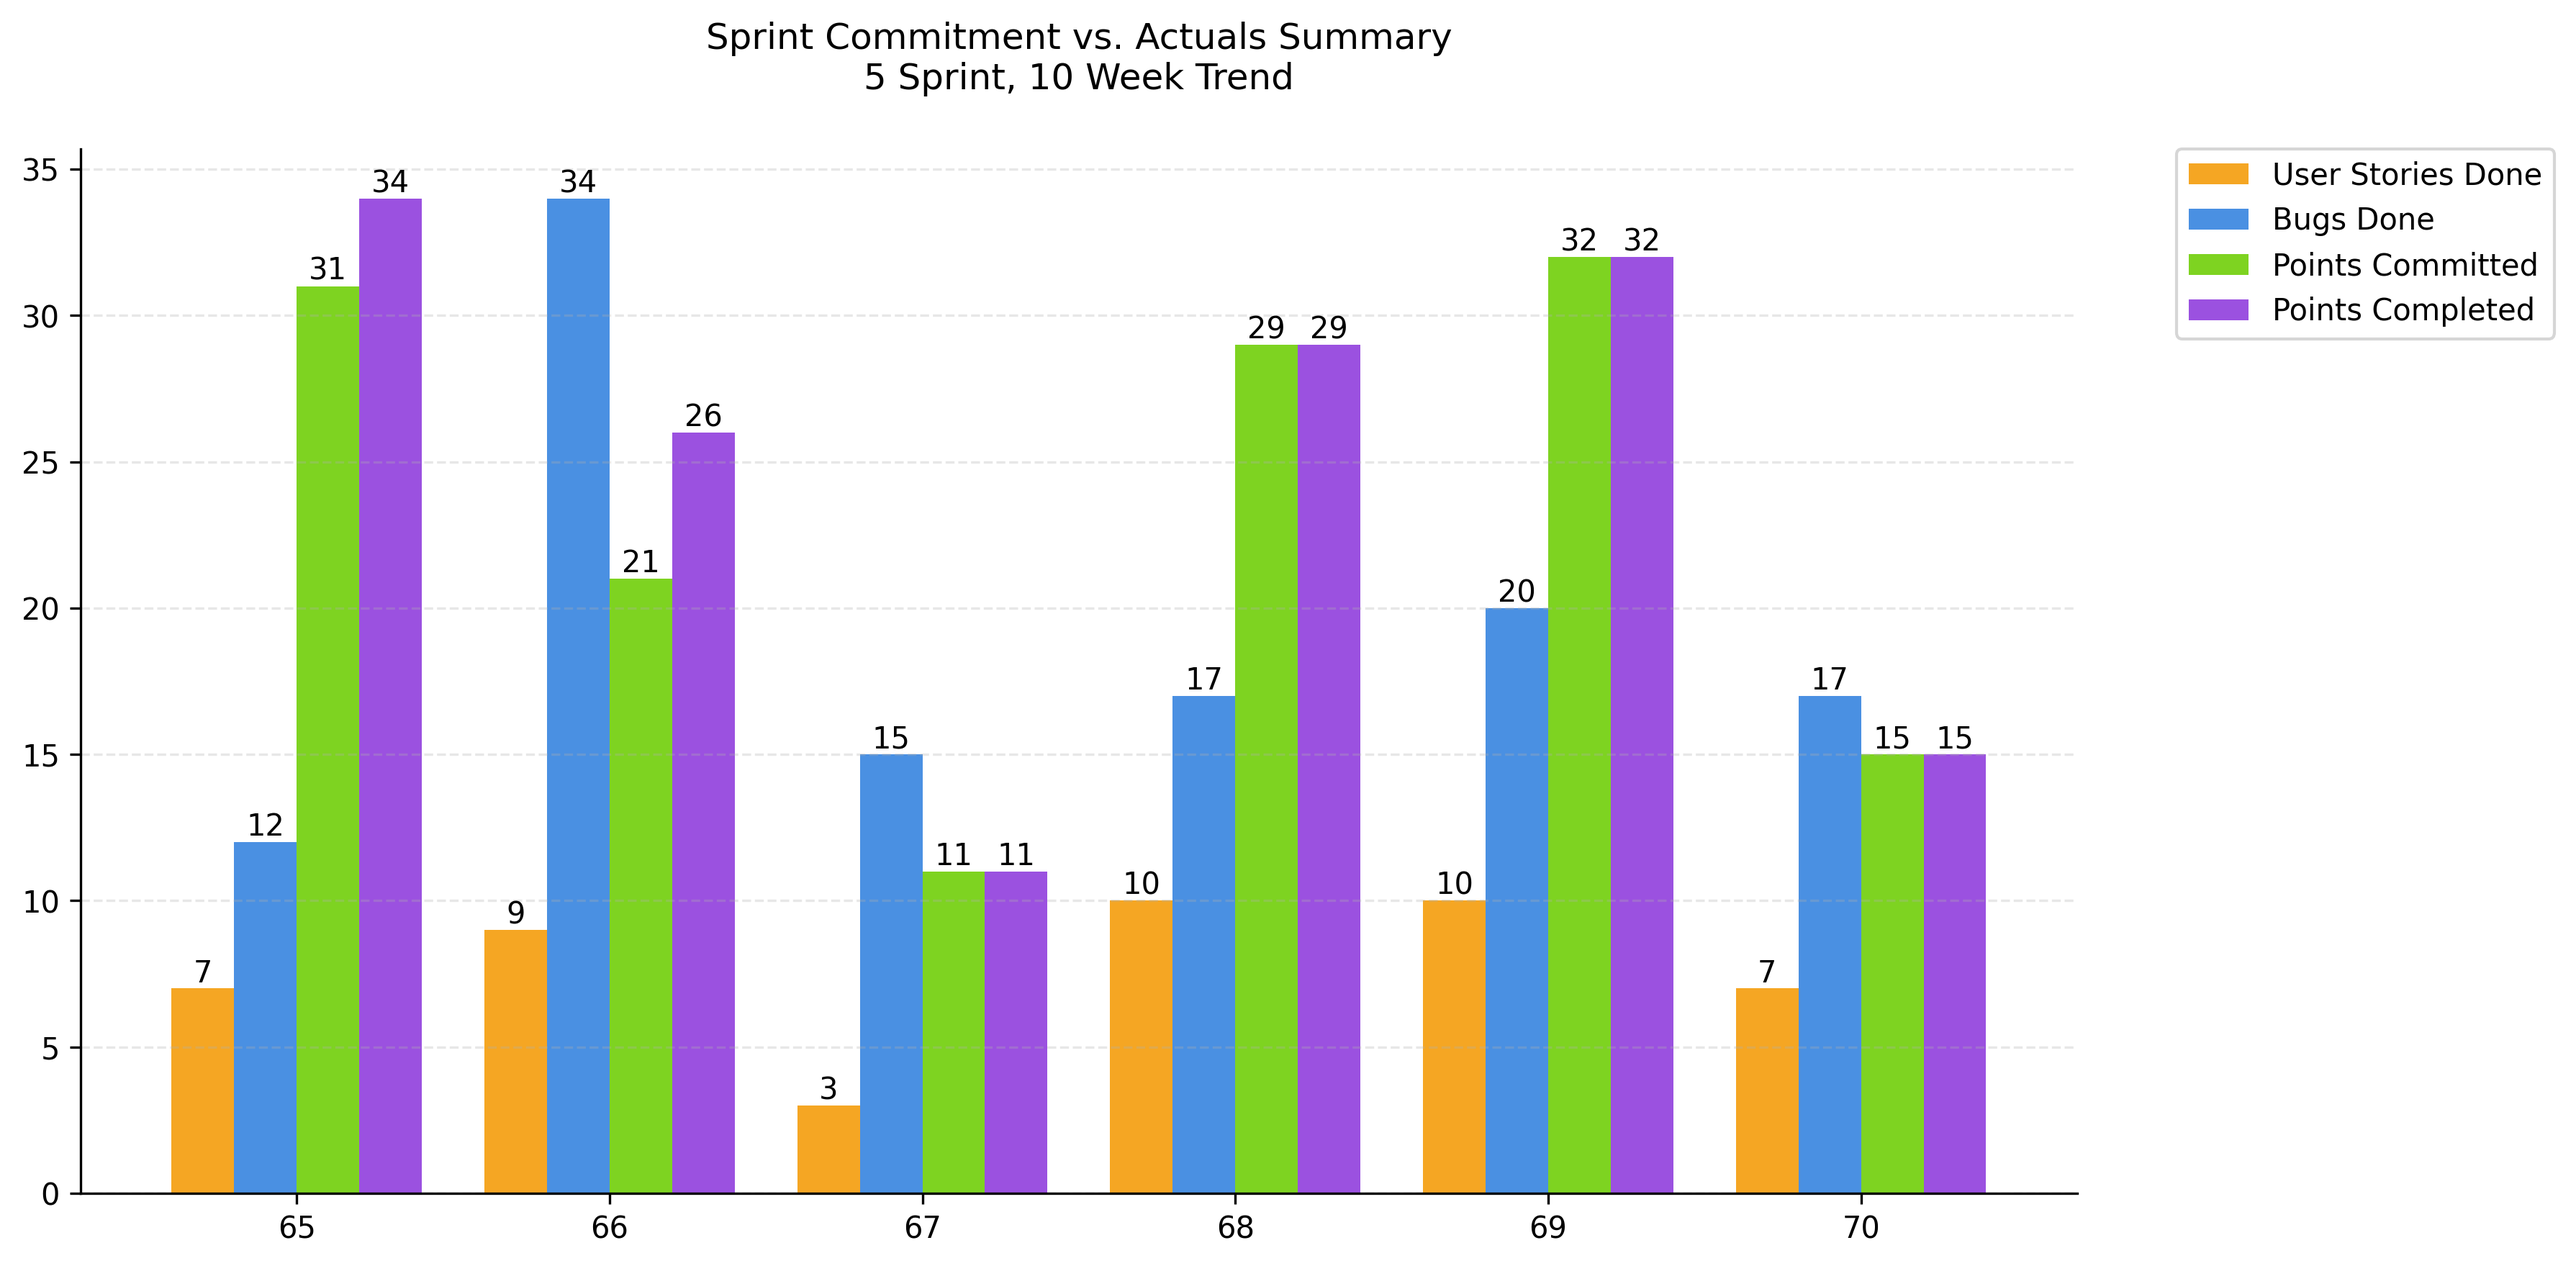
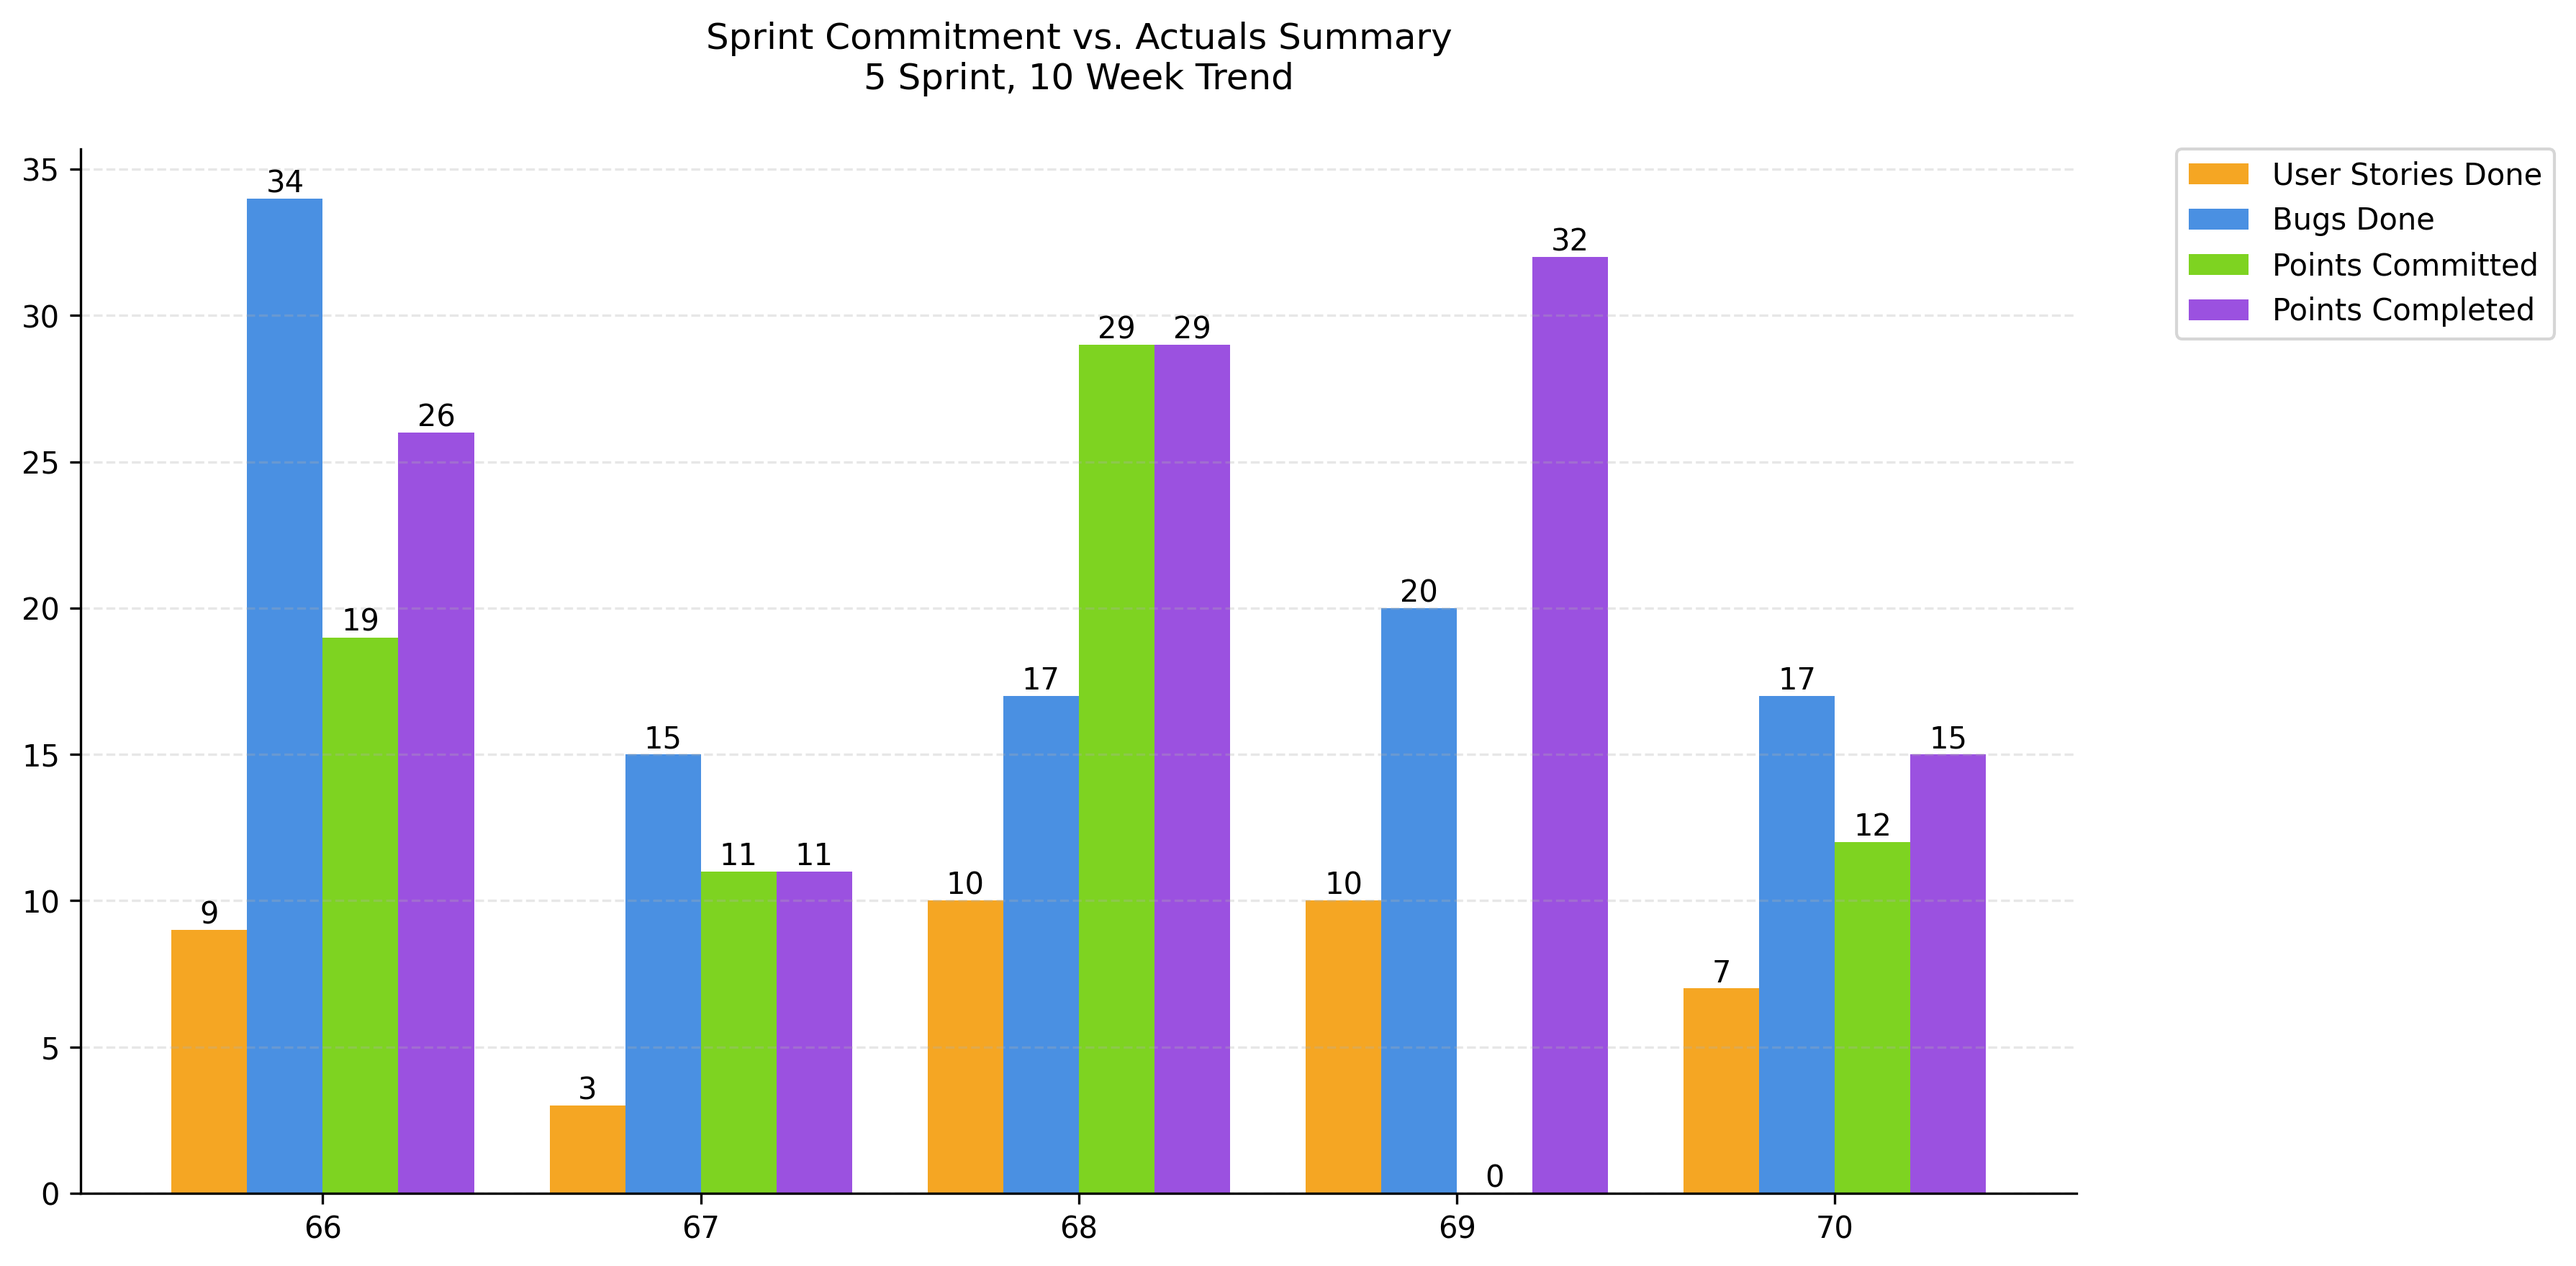
sprint carry over

Changed region(s): [[0.062, 0.1228, 0.7754, 0.9824]]

diff --git a/azure/main.py b/azure/main.py
@@ -16,9 +16,9 @@ headers = {
 }
 
 current_sprint = 'Sprint 70'
-sprint_range_start = 65
-sprint_range_end = 71
-sprints_to_analyze = [f'Sprint {i}' for i in range(sprint_range_start, sprint_range_end)]
+sprint_range_start = 66
+sprint_range_end = 70
+sprints_to_analyze = [f'Sprint {i}' for i in range(sprint_range_start, sprint_range_end + 1)]
 
 def parse_azure_date(date_string):
     if not date_string:
@@ -40,6 +40,58 @@ def get_sprint_dates(iterations, sprint_name):
             )
     return None, None
 
+def get_all_iterations():
+    url = f'https://dev.azure.com/{organization}/{project}/{team}/_apis/work/teamsettings/iterations?api-version=6.0'
+    response = requests.get(url, headers=headers)
+    if response.status_code != 200:
+        print(f"Error fetching iterations. Status code: {response.status_code}")
+        print(response.text)
+        return []
+    return response.json()['value']
+
+def get_work_item_history(work_item_id):
+    url = f'https://dev.azure.com/{organization}/{project}/_apis/wit/workItems/{work_item_id}/updates?api-version=6.0'
+    response = requests.get(url, headers=headers)
+    if response.status_code != 200:
+        print(f"Error fetching work item history for ID {work_item_id}. Status code: {response.status_code}")
+        return []
+    return response.json()['value']
+
+def check_previous_sprint_activity(work_item_id, current_sprint_path, iterations):
+    history = get_work_item_history(work_item_id)
+    if not history:
+        return False
+    
+    # Get mapping of sprint names to paths
+    sprint_paths = {iter['name']: iter.get('path', '') for iter in iterations}
+    previous_sprint = f"Sprint {int(current_sprint.split()[1]) - 1}"
+    previous_sprint_path = sprint_paths.get(previous_sprint, '')
+    
+    # Get in-progress states
+    in_progress_states = ['In Development', 'In Progress', 'Ready for QA', 'QA', 'Code Review']
+    
+    for update in history:
+        if 'fields' in update and 'System.State' in update['fields']:
+            state_change = update['fields']['System.State']
+            if 'newValue' in state_change and state_change['newValue'] in in_progress_states:
+                # Check if this state change occurred during the previous sprint
+                if 'fields' in update and 'System.IterationPath' in update['fields']:
+                    iter_path = update['fields']['System.IterationPath']
+                    if 'oldValue' in iter_path and iter_path['oldValue'] == previous_sprint_path:
+                        return True
+                    if 'newValue' in iter_path and iter_path['newValue'] == previous_sprint_path:
+                        return True
+                
+                # If we don't have iteration path in this update, check the revision date
+                revision_date = parse_azure_date(update.get('revisedDate'))
+                if revision_date:
+                    # Get previous sprint dates
+                    prev_start, prev_end = get_sprint_dates(iterations, previous_sprint)
+                    if prev_start and prev_end and prev_start <= revision_date <= prev_end:
+                        return True
+    
+    return False
+
 def get_sprint_data(sprint_name):
     sprint_data = {
         'user_stories_total': 0,
@@ -47,17 +99,14 @@ def get_sprint_data(sprint_name):
         'bugs_completed': 0,
         'points_committed': 0,
         'points_completed': 0,
-        'initial_points_committed': 0
+        'initial_points_committed': 0,
+        'carry_over_points': 0
     }
 
-    url = f'https://dev.azure.com/{organization}/{project}/{team}/_apis/work/teamsettings/iterations?api-version=6.0'
-    response = requests.get(url, headers=headers)
-    if response.status_code != 200:
-        print(f"Error fetching sprint data for {sprint_name}. Status code: {response.status_code}")
-        print(response.text)
+    iterations = get_all_iterations()
+    if not iterations:
         return sprint_data
 
-    iterations = response.json()['value']
     iteration_path = next((iter.get('path', '') for iter in iterations if iter['name'] == sprint_name), None)
     if not iteration_path:
         return sprint_data
@@ -70,7 +119,8 @@ def get_sprint_data(sprint_name):
     query = {
         'query': f"""
             SELECT [System.Id], [System.Title], [System.WorkItemType], 
-                   [Microsoft.VSTS.Scheduling.StoryPoints], [System.State]
+                   [Microsoft.VSTS.Scheduling.StoryPoints], [System.State], 
+                   [System.CreatedDate], [System.ChangedDate]
             FROM workitems 
             WHERE [System.IterationPath] = '{iteration_path}'
         """
@@ -91,6 +141,7 @@ def get_sprint_data(sprint_name):
         return sprint_data
 
     for item in response.json()['value']:
+        item_id = item['id']
         fields = item['fields']
         item_type = fields['System.WorkItemType']
         state = fields['System.State']
@@ -99,12 +150,14 @@ def get_sprint_data(sprint_name):
         
         created_date = parse_azure_date(fields.get('System.CreatedDate'))
         closed_date = parse_azure_date(fields.get('Microsoft.VSTS.Common.ClosedDate'))
+        changed_date = parse_azure_date(fields.get('System.ChangedDate'))
         
         print(f"\nAnalyzing: {title}")
         print(f"State: {state}")
         print(f"Points: {points}")
         print(f"Created: {created_date}")
         print(f"Closed: {closed_date}")
+        print(f"Changed: {changed_date}")
         print(f"Sprint window: {sprint_start} to {sprint_end_eod}")
 
         if item_type == 'User Story':
@@ -114,20 +167,32 @@ def get_sprint_data(sprint_name):
                 sprint_data['initial_points_committed'] += points
             sprint_data['points_committed'] += points
             
-            if state == 'Closed' and closed_date and sprint_start <= closed_date <= sprint_end_eod:
+            # Check if this is a carry-over story from a previous sprint
+            is_from_previous_sprint = check_previous_sprint_activity(item_id, iteration_path, iterations)
+            is_not_done = state not in ['Closed', 'Done']
+            
+            if is_from_previous_sprint:
+                print(f"🔄 Work on this story began in a previous sprint")
+                sprint_data['carry_over_points'] += points
+                print(f"🚧 Identified as carry-over story. Points: {points}")
+            elif is_not_done and changed_date and sprint_start <= changed_date <= sprint_end_eod:
+                sprint_data['carry_over_points'] += points
+                print(f"🚧 Identified as carry-over story within current sprint. Points: {points}")
+            
+            if state in ['Closed', 'Done'] and closed_date and sprint_start <= closed_date <= sprint_end_eod:
                 sprint_data['user_stories_completed'] += 1
                 sprint_data['points_completed'] += points
                 print(f"✅ Adding to completed stories. New total: {sprint_data['user_stories_completed']}")
             else:
                 print("❌ Not counting this item because:")
-                if state != 'Closed':
-                    print("  - Item is not Closed")
+                if state not in ['Closed', 'Done']:
+                    print("  - Item is not Closed/Done")
                 if not closed_date:
                     print("  - No closed date")
                 if closed_date and (closed_date < sprint_start or closed_date > sprint_end_eod):
                     print("  - Closed date outside sprint window")
                 
-        elif item_type == 'Bug' and state == 'Closed' and closed_date and sprint_start <= closed_date <= sprint_end_eod:
+        elif item_type == 'Bug' and state in ['Closed', 'Done'] and closed_date and sprint_start <= closed_date <= sprint_end_eod:
             sprint_data['bugs_completed'] += 1
 
     return sprint_data
@@ -150,25 +215,26 @@ def create_velocity_graph(all_sprint_data, output_folder):
     last_three = list(all_sprint_data.items())[-3:]
     
     stories = [d['user_stories_completed'] for _, d in last_three]
-    points = [d['points_completed'] for _, d in last_three]
+    adjusted_points = [d['points_completed'] for _, d in last_three]
     
     x = np.arange(2)
     width = 0.5
     
     plt.bar(x[0], np.mean(stories), width, color='#4A90E2', label='User Story')
-    plt.bar(x[1], np.mean(points), width, color='#F5A623', label='Story Point')
+    plt.bar(x[1], np.mean(adjusted_points), width, color='#F5A623', label='Story Point')
     
     plt.title('3 Sprint Rolling Avg User Story &\nStory Point Velocity', pad=20)
     plt.xticks([])
     
-    for i, v in enumerate([np.mean(stories), np.mean(points)]):
-        plt.text(i, v, f'{int(v)}', ha='center', va='bottom')
-    
-    plt.gca().spines['top'].set_visible(False)
-    plt.gca().spines['right'].set_visible(False)
-    plt.gca().spines['bottom'].set_visible(False)
+    ax = plt.gca()
+    ax.spines['top'].set_visible(False)
+    ax.spines['right'].set_visible(False)
+    ax.spines['bottom'].set_visible(False)
     
     plt.grid(axis='y', linestyle='--', alpha=0.3)
+    
+    for i, v in enumerate([np.mean(stories), np.mean(adjusted_points)]):
+        plt.text(i, float(v), f'{int(v)}', ha='center', va='bottom')
     
     plt.tight_layout()
     plt.savefig(f'{output_folder}/velocity_graph.png', dpi=300, bbox_inches='tight')
@@ -183,19 +249,20 @@ def create_bugs_graph(all_sprint_data, output_folder):
     
     bars = plt.bar(sprints, bugs, color='#4A90E2', width=0.6)
     
-    title = f'Bugs Done\nSprints {sprint_range_start} - {sprint_range_end - 1}'
+    title = f'Bugs Done\nSprints {sprint_range_start} - {sprint_range_end}'
     plt.title(title, pad=20)
     plt.xlabel('')
     plt.ylabel('')
     
-    plt.gca().spines['top'].set_visible(False)
-    plt.gca().spines['right'].set_visible(False)
+    ax = plt.gca()
+    ax.spines['top'].set_visible(False)
+    ax.spines['right'].set_visible(False)
     
     plt.grid(axis='y', linestyle='--', alpha=0.3)
     
     for bar in bars:
         height = bar.get_height()
-        plt.text(bar.get_x() + bar.get_width()/2., height,
+        plt.text(bar.get_x() + bar.get_width()/2., float(height),
                 f'{int(height)}',
                 ha='center', va='bottom')
     
@@ -209,7 +276,7 @@ def create_commitment_graph(all_sprint_data, output_folder):
     
     user_stories = [d['user_stories_completed'] for d in all_sprint_data.values()]
     bugs = [d['bugs_completed'] for d in all_sprint_data.values()]
-    points_committed = [d['initial_points_committed'] for d in all_sprint_data.values()]
+    points_committed = [d['initial_points_committed'] - d['carry_over_points'] for d in all_sprint_data.values()]
     points_completed = [d['points_completed'] for d in all_sprint_data.values()]
     
     x = np.arange(len(sprints))
@@ -224,8 +291,9 @@ def create_commitment_graph(all_sprint_data, output_folder):
     plt.xlabel('')
     plt.ylabel('')
     
-    plt.gca().spines['top'].set_visible(False)
-    plt.gca().spines['right'].set_visible(False)
+    ax = plt.gca()
+    ax.spines['top'].set_visible(False)
+    ax.spines['right'].set_visible(False)
     
     plt.grid(axis='y', linestyle='--', alpha=0.3)
     
@@ -236,7 +304,7 @@ def create_commitment_graph(all_sprint_data, output_folder):
         positions = [i - width*1.5, i - width/2, i + width/2, i + width*1.5]
         
         for value, position in zip(metrics, positions):
-            plt.text(position, value, str(int(value)),
+            plt.text(position, float(value), str(int(value)),
                     ha='center', va='bottom')
     
     plt.legend(loc='upper left', bbox_to_anchor=(1.05, 1), borderaxespad=0.)
@@ -249,7 +317,8 @@ def create_sprint_stats_graph(sprint_data, output_folder):
     plt.figure(figsize=(8, 6))
     plt.clf()
     
-    points_completion_pct = round((sprint_data['points_completed'] / sprint_data['points_committed']) * 100) if sprint_data['points_committed'] > 0 else 0
+    adjusted_points_committed = sprint_data['points_committed'] - sprint_data['carry_over_points']
+    points_completion_pct = round((sprint_data['points_completed'] / adjusted_points_committed) * 100) if adjusted_points_committed > 0 else 0
     
     sprint_number = current_sprint.split()[-1]
     
@@ -257,7 +326,7 @@ def create_sprint_stats_graph(sprint_data, output_folder):
         (f'Sprint {sprint_number} Stats', 'black', 20, 0.95),
         (f'Total User Stories Committed: {sprint_data["user_stories_total"]}', '#FF8C00', 14, 0.90),
         (f'Total Done: {sprint_data["user_stories_completed"]}', '#0078D7', 14, 0.85),
-        (f'Total Story Points Committed: {sprint_data["points_committed"]}', '#FF8C00', 14, 0.80),
+        (f'Total Story Points Committed: {adjusted_points_committed}', '#FF8C00', 14, 0.80),
         (f'Total Done: {sprint_data["points_completed"]}', '#0078D7', 14, 0.75),
         (f'Completion: {points_completion_pct}%', 'black', 16, 0.70)
     ]
@@ -274,7 +343,7 @@ def create_sprint_stats_graph(sprint_data, output_folder):
         spine.set_visible(False)
     
     for text, color, size, y_pos in text_elements:
-        plt.text(0.5, y_pos, text,
+        plt.text(0.5, float(y_pos), text,
                 horizontalalignment='center',
                 verticalalignment='center',
                 transform=ax.transAxes,
@@ -309,7 +378,7 @@ def create_rolling_average_graph(all_sprint_data, output_folder):
     ax1.bar([1], [avg_stories], width, color='#4A90E2', label='Avg Stories')
     
     for i, v in enumerate([avg_points, avg_stories]):
-        ax1.text(i, v, f'{int(v)}', ha='center', va='bottom')
+        ax1.text(i, float(v), f'{int(v)}', ha='center', va='bottom')
     
     ax1.set_title('5 Sprint Rolling Average', pad=20)
     ax1.set_xticks([0, 1])
@@ -321,8 +390,8 @@ def create_rolling_average_graph(all_sprint_data, output_folder):
     ax2.bar(x + width/2, stories, width, color='#4A90E2', label='Stories')
     
     for i in range(len(sprints)):
-        ax2.text(i - width/2, points[i], str(int(points[i])), ha='center', va='bottom')
-        ax2.text(i + width/2, stories[i], str(int(stories[i])), ha='center', va='bottom')
+        ax2.text(i - width/2, float(points[i]), str(int(points[i])), ha='center', va='bottom')
+        ax2.text(i + width/2, float(stories[i]), str(int(stories[i])), ha='center', va='bottom')
     
     ax2.set_title('Individual Sprint Performance', pad=20)
     ax2.set_xticks(x)
